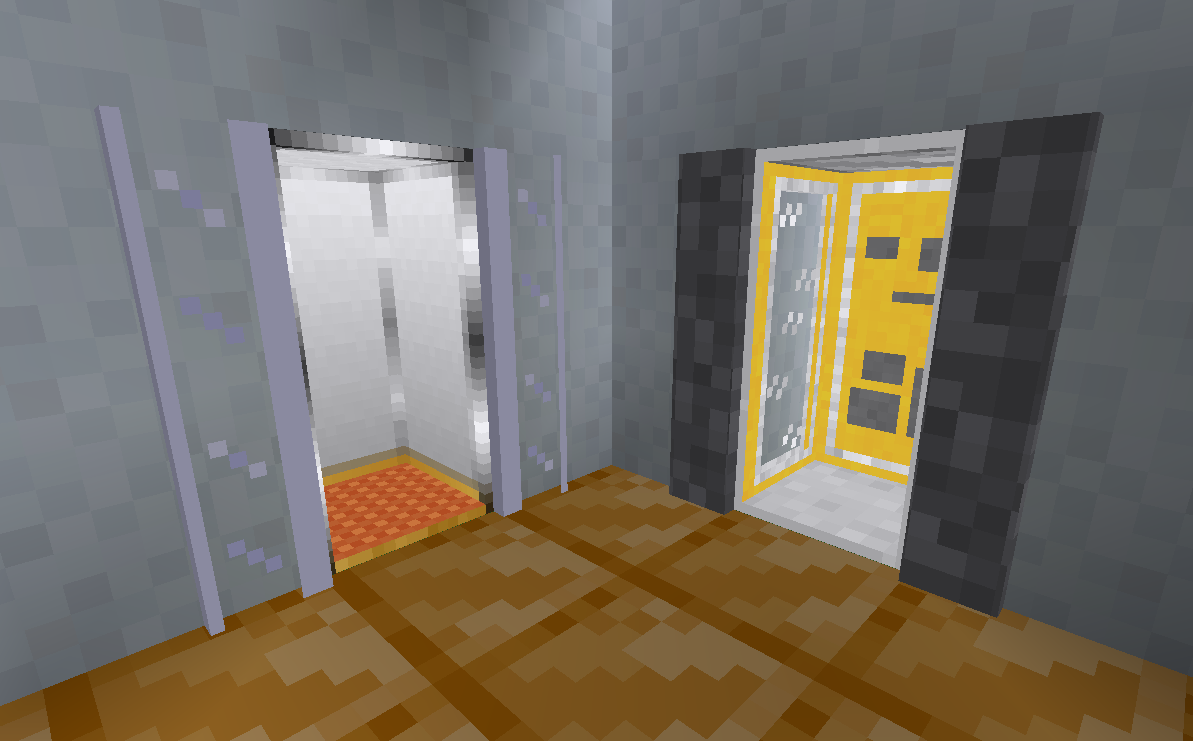
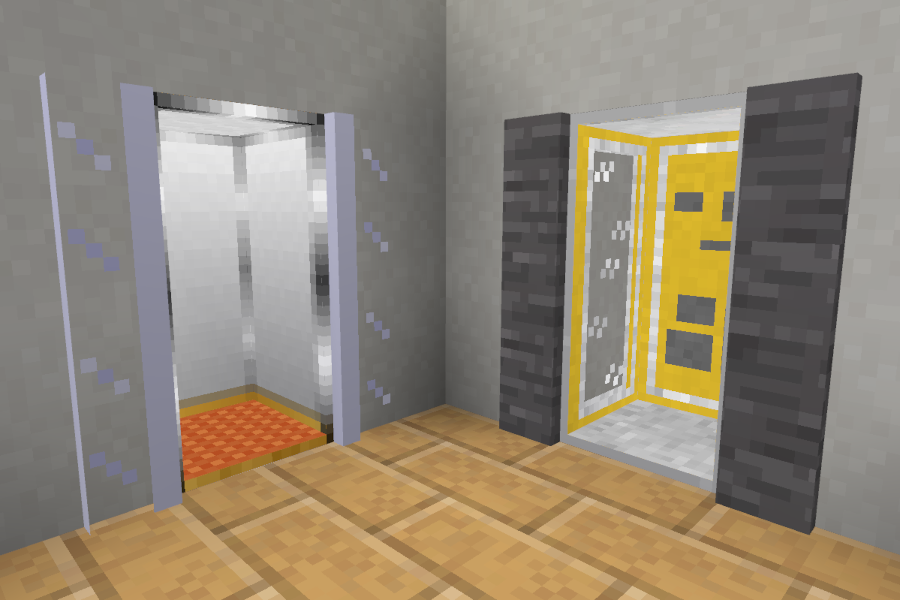
add the rest of the dye colors for travelnets (#19)
* add the rest of the dye colors for travelnets

* fix screenshot url in readme

* use markdown syntax for images

* add color fixes from OgelGames

* updated screenshots

diff --git a/README.md b/README.md
@@ -21,8 +21,9 @@ All stations that have the same network name set and are owned by the same user 
 
 ## Screenshots
 
-<img src="./screenshot.png"/>
-<img src="./screenshot_colors.png"/>
+![](screenshot.png)
+![](screenshot_day.png)
+![](screenshot_night.png)
 
 ## License
 
